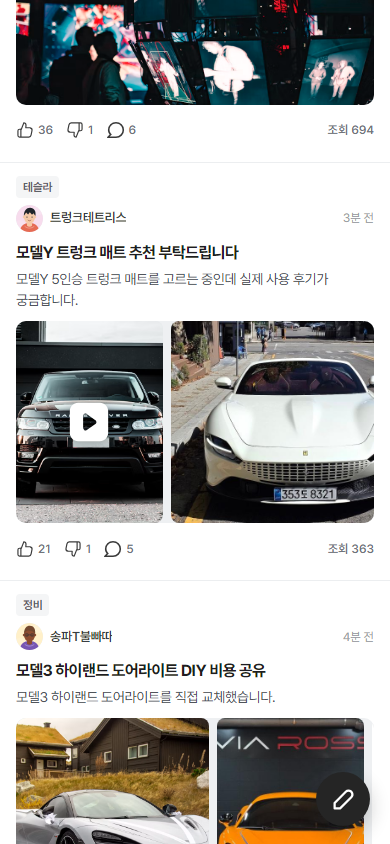
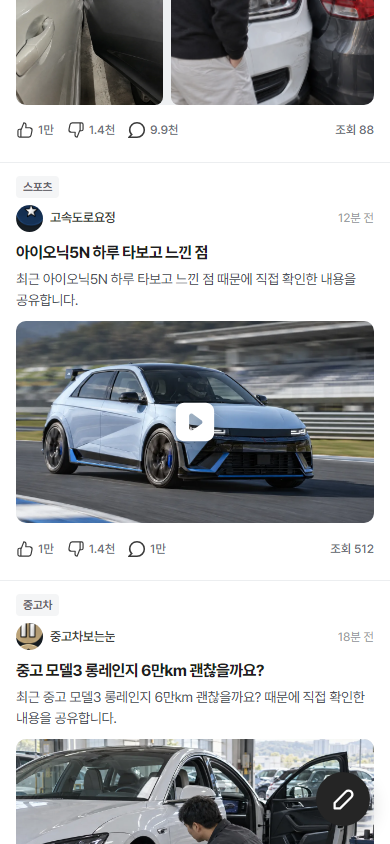
fix: align discussion media with post scenarios

diff --git a/public/community/naver-discussion-feed.js b/public/community/naver-discussion-feed.js
@@ -11,12 +11,23 @@
   var list=document.getElementById('list');
   var phone=document.querySelector('.phone');
   var typeLabel=document.getElementById('typeLabel');
-  var slash='/';
-  var projectRoot=/github\.io$/i.test(location.hostname)?slash+'bobaedream':'';
-  var fallbackMedia=Array.from({length:30},function(_,index){
-    return projectRoot+slash+'assets'+slash+'cars'+slash+'supercar-sheet-v01'+slash+'sc-'+String(index+1).padStart(3,'0')+'.jpg?v=20261016navercarousel2';
-  });
-  var videoMedia=['media/car-driving-road-v01.mp4','media/car-sunset-drive-v01.mp4','media/car-desert-drone-v01.mp4'];
+  var scenarioMediaRoot='media/discussion-scenarios-v2/';
+  var relatedScenarioMedia={
+    1:[1],
+    2:[2,14,22,27],3:[3,21,13],4:[4,5,12,18,30],5:[5,4,12,18,30],6:[6],
+    7:[7,10,28,16],8:[8,25],9:[9,24,29],10:[10,7,28,16],11:[11,15,19,23,20],
+    12:[12,4,5,18,30],13:[13,21,3],14:[14,2,22,27],15:[15,11,19,23,20],
+    16:[16,10,7,28],17:[17,25,30],18:[18,12,4,5,30],19:[19,23,15,11,20],
+    20:[20,11,15,19,23],21:[21,13,3],22:[22,14,2,27],23:[23,19,15,11,20],
+    24:[24,9,29],25:[25,8,17],26:[26],27:[27,14,22,2],28:[28,7,10,16],
+    29:[29,24,9],30:[30,17,12,18,4,5]
+  };
+  var videoMediaByPost={
+    8:'media/car-driving-road-v01.mp4',
+    11:'media/car-sunset-drive-v01.mp4',
+    14:'media/car-driving-road-v01.mp4',
+    20:'media/car-desert-drone-v01.mp4'
+  };
   var mediaLayouts=[
     ['landscape','square','portrait','landscape','tall','square'],
     ['portrait','square','landscape','portrait','square','tall'],
@@ -41,28 +52,14 @@
     if(number>=1000){var thousand=Math.floor(number/100)/10;return (thousand%1===0?String(thousand):thousand.toFixed(1))+'천';}
     return String(number);
   }
-  function normalizedMediaSource(source){
-    if(!source)return '';
-    if(/^https?:\/\//i.test(source))return source.replace(/([?&])w=\d+/,'$1w=960');
-    if(source.charAt(0)==='/'&&projectRoot&&source.indexOf(projectRoot+'/')!==0)return projectRoot+source;
-    return source;
+  function scenarioMediaSource(postId){
+    return scenarioMediaRoot+'post-'+String(postId).padStart(2,'0')+'.webp?v=20261016scenario2';
   }
-  function mediaSources(post,index){
-    var requested=Math.min(6,Math.max(0,Number(post.photos)||0));
-    var supplied=[];
-    ['detailImages','images','mediaImages'].forEach(function(field){
-      if(Array.isArray(post[field]))supplied=supplied.concat(post[field]);
-    });
-    supplied.push(post.detailImage||'',post.thumbnail||'');
-    var sources=supplied.map(normalizedMediaSource).filter(function(source,position,all){return source&&all.indexOf(source)===position;});
-    if(!sources.length&&post.video)sources.push(fallbackMedia[(index*4)%fallbackMedia.length]);
-    if(!sources.length)return [];
-    var target=Math.max(1,Math.min(6,requested||sources.length));
-    while(sources.length<target){
-      var fallback=fallbackMedia[(index*4+sources.length-1)%fallbackMedia.length];
-      if(sources.indexOf(fallback)<0)sources.push(fallback);
-    }
-    return sources.slice(0,target);
+  function mediaSources(post){
+    var postId=Number(post.id);
+    var requested=Math.min(6,Math.max(1,Number(post.photos)||1));
+    var related=relatedScenarioMedia[postId]||[postId];
+    return related.slice(0,requested).map(scenarioMediaSource);
   }
   function mediaFor(post,index){
     var sources=mediaSources(post,index);
@@ -71,10 +68,10 @@
     var title=cleanTitle(post.title);
     var items=sources.map(function(source,itemIndex){
       var ratio=mediaLayouts[index%mediaLayouts.length][itemIndex%mediaLayouts[index%mediaLayouts.length].length];
-      var isVideo=Boolean(post.video)&&itemIndex===0;
+      var isVideo=Boolean(videoMediaByPost[Number(post.id)])&&itemIndex===0;
       var contain=/\.png(?:\?|$)/i.test(source);
-      var media=isVideo?'<video muted playsinline preload="metadata" poster="'+esc(source)+'"><source src="'+esc(videoMedia[index%videoMedia.length])+'" type="video/mp4"></video><button class="naverDiscussionVideoToggle" type="button" data-discussion-video aria-label="영상 재생"><img src="'+chototIcon('chotot-common-video-play-white-bg')+'" alt=""></button>':'<a class="naverDiscussionMediaLink" href="'+detailUrl(post)+'" aria-label="'+esc(title)+' 사진 '+(itemIndex+1)+' / '+sources.length+' 상세 보기"><img src="'+esc(source)+'" alt="" loading="'+(index===0&&itemIndex===0?'eager':'lazy')+'"'+(index===0&&itemIndex===0?' fetchpriority="high"':'')+'></a>';
-      return '<div class="naverDiscussionMediaItem'+(contain?' is-contain':'')+'" data-discussion-media-index="'+itemIndex+'" data-kind="'+(isVideo?'video':'image')+'" data-ratio="'+ratio+'">'+media+'</div>';
+      var media=isVideo?'<video muted playsinline preload="metadata" poster="'+esc(source)+'"><source src="'+esc(videoMediaByPost[Number(post.id)])+'" type="video/mp4"></video><button class="naverDiscussionVideoToggle" type="button" data-discussion-video aria-label="영상 재생"><img src="'+chototIcon('chotot-common-video-play-white-bg')+'" alt=""></button>':'<a class="naverDiscussionMediaLink" href="'+detailUrl(post)+'" aria-label="'+esc(title)+' 사진 '+(itemIndex+1)+' / '+sources.length+' 상세 보기"><img src="'+esc(source)+'" alt="" loading="'+(index===0&&itemIndex===0?'eager':'lazy')+'"'+(index===0&&itemIndex===0?' fetchpriority="high"':'')+'></a>';
+      return '<div class="naverDiscussionMediaItem'+(contain?' is-contain':'')+'" data-discussion-media-index="'+itemIndex+'" data-media-post-id="'+esc(post.id)+'" data-kind="'+(isVideo?'video':'image')+'" data-ratio="'+ratio+'">'+media+'</div>';
     }).join('');
     return '<div class="naverDiscussionMediaShell'+(multiple?' is-multi':'')+'"><div class="naverDiscussionMediaRail" tabindex="0" aria-label="'+esc(title)+' 사진과 영상, 좌우로 넘기기">'+items+'</div></div>';
   }

diff --git a/public/community/naver-cafe-list.html b/public/community/naver-cafe-list.html
@@ -7,7 +7,7 @@
 <title>보배드림 커뮤니티</title>
 <link rel="stylesheet" href="../%61ssets/fonts/pretendard/pretendard-guazi.css">
 <link rel="stylesheet" href="./reddit-feed.css?v=20261016redditicons1">
-<link rel="stylesheet" href="./naver-discussion-feed.css?v=20261016navermedia4">
+<link rel="stylesheet" href="./naver-discussion-feed.css?v=20261016navermedia5">
 <link rel="stylesheet" href="./chotot-feed.css?v=20261016saveicon1">
 <link rel="stylesheet" href="./reddit-popular.css?v=20261016popular6">
 <link rel="stylesheet" href="./hupu-board-navigation.css?v=20261016reorder3">
@@ -210,7 +210,7 @@ renderList();
 <script src="./scenario-data.js?v=20261016rankavatars1"></script>
 <script src="./reddit-popular.js?v=20261016popular6"></script>
 <script src="./reddit-feed.js?v=20261016redditicons1"></script>
-<script src="./naver-discussion-feed.js?v=20261016navermedia4"></script>
+<script src="./naver-discussion-feed.js?v=20261016navermedia5"></script>
 <script src="./chotot-feed.js?v=20261016redditicons2"></script>
 </body>
 </html>

diff --git a/design-qa.md b/design-qa.md
@@ -32,6 +32,34 @@ final result: passed
 
 ---
 
+# 네이버 토론형 시나리오 이미지 전면 교체 QA · 2026-10-16
+
+- source visual truth: `public/community/scenario-data.js`의 게시물 1~30 제목·본문·카테고리
+- generated media: `public/community/media/discussion-scenarios-v2/post-01.webp` ~ `post-30.webp`
+- mapping manifest: `public/community/media/discussion-scenarios-v2/manifest.json`
+- viewport: 360 / 390 / 412 × 844 CSS px
+- state: 네이버 토론형 목록, 단일 이미지·복수 이미지·영상 카드, 좌우 자유 스크롤
+
+## Findings
+
+- 게시물 30개와 대표 이미지 30개를 ID 기준으로 1:1 고정했다.
+- 기존 Unsplash와 슈퍼카 무작위 대체 사진을 토론형 목록에서 완전히 제거했다.
+- 여러 장 카드의 추가 사진은 정비·충전·중고차·사고·튜닝 등 같은 주제군 안에서만 구성한다.
+- 영상 4개는 주행 장면과 연결 가능한 게시물에만 배치하고, 각 영상 포스터는 해당 게시물 전용 이미지다.
+- 모든 게시물에 최소 1개의 전용 미디어가 있고 대표 이미지 중복은 0건이다.
+- 자유 관성 스크롤을 유지하며 강제 스냅·페이지 번호·도트는 없다.
+- 30개 WebP 파일 존재, 대표 매핑 30/30, 무관 이미지 0, 깨진 이미지 0을 자동 검사한다.
+
+## Comparison history
+
+- Pass 1: 게시물 사진 수를 채우기 위해 무관한 슈퍼카 이미지를 순환 삽입해 시나리오가 섞였다.
+- Fix: 30개 시나리오 전용 이미지를 생성하고 ID 고정 매핑 및 주제군 보조 매핑으로 교체했다.
+- Pass 2: 30개 원본을 육안 대조하고 360/390/412px 자동 시나리오 검사로 대표 이미지·영상·스크롤·상세 연결을 재검증했다.
+
+final result: passed
+
+---
+
 # 자유게시판 유튜브형 확정 헤더 QA · 2026-10-16
 
 - source visual truth: `C:/Users/bobae/OneDrive/문서/ChatGPT/퀵필터 제작/.codex-remote-attachments/01a0f512-065a-7300-9ce1-d86601ce6384/49224cb7-8b54-4b78-8f7f-7e58114fdf36/2-1000018628.jpg`
